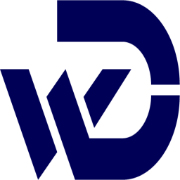
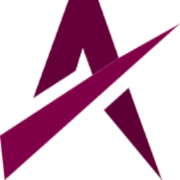
Edited PWA settings

diff --git a/app/components/dashboard/nav-links.tsx b/app/components/dashboard/nav-links.tsx
@@ -2,15 +2,14 @@
 
 import {
   HomeIcon,
-  DocumentDuplicateIcon,
   ClipboardDocumentListIcon,
   ClipboardDocumentCheckIcon,
+  Cog6ToothIcon,
 } from '@heroicons/react/24/outline';
 
 import Link from 'next/link';
 import { usePathname } from 'next/navigation';
 import clsx from 'clsx';
-import ThemeSwitcher from '@/app/components/themeSwitcher';
 
 // Map of links to display in the side navigation.
 const links = [
@@ -23,6 +22,7 @@ const links = [
   // { name: 'Customers', href: '/dashboard/customers', icon: UserGroupIcon },
   { name: 'Tasks', href: '/dashboard/tasks', icon: ClipboardDocumentListIcon },
   { name: 'Goals', href: '/dashboard/goals', icon: ClipboardDocumentCheckIcon },
+  { name: 'Settings', href: '/dashboard/settings', icon: Cog6ToothIcon },
 ];
 
 export default function NavLinks() {
@@ -30,36 +30,65 @@ export default function NavLinks() {
 
   return (
     <>
-      {links.map((link) => {
+      {links.map((link, index) => {
         const LinkIcon = link.icon;
-        return (
-          <Link
-            key={link.name}
-            href={link.href}
-            className={clsx(
-              'flex h-[48px] grow items-center justify-center gap-2 rounded-md  p-3 text-sm font-medium dark:hover:text-white md:flex-none md:justify-start md:p-2 md:px-3',
-              {
-                'bg-active hover:bg-active dark:bg-active text-white hover:text-white dark:text-white':
-                  pathname === link.href,
-              },
-              {
-                'dark:hover:bg-active dark:bg-secondary bg-gray-50 hover:bg-gray-100':
-                  pathname !== link.href,
-              },
-            )}
-          >
-            <LinkIcon className="w-6" />
-            <p className="hidden md:block">{link.name}</p>
-          </Link>
-        );
+        if (index + 1 < links.length) {
+          return (
+            <Link
+              key={link.name}
+              href={link.href}
+              className={clsx(
+                'flex h-[48px] grow items-center justify-center gap-2 rounded-md  p-3 text-sm font-medium dark:hover:text-white md:flex-none md:justify-start md:p-2 md:px-3',
+                {
+                  'bg-active hover:bg-active dark:bg-active text-white hover:text-white dark:text-white':
+                    pathname === link.href,
+                },
+                {
+                  'dark:hover:bg-active dark:bg-secondary bg-gray-50 hover:bg-gray-200':
+                    pathname !== link.href,
+                },
+              )}
+            >
+              <LinkIcon className="w-6" />
+              <p className="hidden md:block">{link.name}</p>
+            </Link>
+          );
+        } else {
+          return (
+            <>
+              <div className="dark:bg-secondary hidden h-auto w-full grow rounded-md bg-gray-50 md:block"></div>
+              <Link
+                key={link.name}
+                href={link.href}
+                className={clsx(
+                  'flex h-[48px] grow items-center justify-center gap-2 rounded-md  p-3 text-sm font-medium dark:hover:text-white md:flex-none md:justify-start md:p-2 md:px-3',
+                  {
+                    'bg-active hover:bg-active dark:bg-active text-white hover:text-white dark:text-white':
+                      pathname === link.href,
+                  },
+                  {
+                    'dark:hover:bg-active dark:bg-secondary bg-gray-50 hover:bg-gray-200':
+                      pathname !== link.href,
+                  },
+                )}
+              >
+                <LinkIcon className="w-6" />
+                <p className="hidden md:block">{link.name}</p>
+              </Link>
+            </>
+          );
+        }
       })}
+      {/* 
+import ThemeSwitcher from '@/app/components/themeSwitcher';
+      
       <div
         className={clsx(
           'dark:bg-secondary hover:text-active dark:hover:bg-active md:px-3s flex h-[48px] grow items-center justify-center gap-2 rounded-md bg-gray-50 p-3 text-sm font-medium hover:bg-gray-100 dark:hover:text-white md:flex-none md:justify-start md:p-2',
         )}
       >
         <ThemeSwitcher />
-      </div>
+      </div> */}
     </>
   );
 }

diff --git a/app/components/dashboard/sidenav.tsx b/app/components/dashboard/sidenav.tsx
@@ -1,32 +1,37 @@
 import Link from 'next/link';
 import NavLinks from '@/app/components/dashboard/nav-links';
-import AcmeLogo from '@/app/components/acme-logo';
-import { PowerIcon } from '@heroicons/react/24/outline';
+import { Cog6ToothIcon, PowerIcon } from '@heroicons/react/24/outline';
 import { signOut } from '@/auth';
-import { useTheme } from 'next-themes';
+import Image from 'next/image';
 
 export default function SideNav() {
   return (
     <div className="flex h-full flex-col px-3 py-4 md:px-2">
       <Link
-        className="bg-active dark:bg-active mb-2 flex h-20 items-end justify-start rounded-md p-4 md:h-40"
+        className="bg-active dark:bg-active mb-2 flex h-20 items-center justify-center rounded-md p-4 md:h-40"
         href="/"
       >
-        <div className="w-32 md:w-40">
-          <AcmeLogo />
-        </div>
+        <Image
+          src={'/logo_wit.svg'}
+          width={150}
+          height={200}
+          alt="Logo ListTrackr"
+        />
       </Link>
       <div className="flex grow flex-row justify-between space-x-2 md:flex-col md:space-x-0 md:space-y-2">
         <NavLinks />
 
-        <div className="dark:bg-secondary hidden h-auto w-full grow rounded-md bg-gray-50 md:block"></div>
         <form
           action={async () => {
             'use server';
             await signOut();
           }}
         >
-          <button className="dark:bg-secondary dark:hover:bg-active flex h-[48px] w-full grow items-center justify-center gap-2 rounded-md bg-gray-50 p-3 text-sm font-medium hover:bg-sky-200 md:flex-none md:justify-start md:p-2 md:px-3">
+          {/* <button className="dark:bg-secondary dark:hover:bg-active mb-2 flex h-[48px] w-full grow items-center justify-center gap-2 rounded-md bg-gray-50 p-3 text-sm font-medium hover:bg-gray-200 md:flex-none md:justify-start md:p-2 md:px-3">
+            <Cog6ToothIcon className="w-6" />
+            <div className="hidden md:block">Settings</div>
+          </button> */}
+          <button className="dark:bg-secondary dark:hover:bg-active flex h-[48px] w-full grow items-center justify-center gap-2 rounded-md bg-gray-50 p-3 text-sm font-medium hover:bg-gray-200 md:flex-none md:justify-start md:p-2 md:px-3">
             <PowerIcon className="w-6" />
             <div className="hidden md:block">Sign Out</div>
           </button>

diff --git a/app/layout.tsx b/app/layout.tsx
@@ -8,10 +8,12 @@ import { ThemeProvider } from '@/app/components/themeProvider';
 
 export const metadata: Metadata = {
   title: {
-    template: '%s | Acme Dashboard',
-    default: 'Acme Dashboard',
+    template: '%s',
+    // template: '%s | ListTrackr',
+    default: 'ListTrackr',
   },
-  description: 'The official Next.js Learn Dashboard built with App Router.',
+  description:
+    'ListTrackr is your personal productivity companion designed to help you turn your aspirations into accomplishments.',
   metadataBase: new URL('https://next-learn-dashboard.vercel.sh'),
 };
 
@@ -29,14 +31,14 @@ export default async function RootLayout({
           name="viewport"
           content="minimum-scale=1, initial-scale=1, width=device-width, shrink-to-fit=no, user-scalable=no, viewport-fit=cover"
         />
-        <meta name="pwa-demo" content="pwa-demo" />
+        <meta name="ListTrackr" content="ListTrackr" />
         <meta name="apple-mobile-web-app-capable" content="yes" />
         <meta name="apple-mobile-web-app-status-bar-style" content="default" />
-        <meta name="apple-mobile-web-app-title" content="pwa-demo" />
-        <meta name="description" content="pwa-demo" />
+        <meta name="apple-mobile-web-app-title" content="ListTrackr" />
+        <meta name="description" content="ListTrackr" />
         <meta name="format-detection" content="telephone=no" />
         <meta name="mobile-web-app-capable" content="yes" />
-        <meta name="msapplication-TileColor" content="#2B5797" />
+        <meta name="msapplication-TileColor" content="#5E0035" />
         <meta name="msapplication-tap-highlight" content="no" />
         <meta name="theme-color" content="#000000" />
         <link rel="manifest" href="/manifest.json" />

diff --git a/middleware.ts b/middleware.ts
@@ -1,21 +1,9 @@
-// // import NextAuth from 'next-auth';
-// // import { authConfig } from './auth.config';
-
-// // export default NextAuth(authConfig).auth;
-// // // export { auth as middleware } from "@/auth"
-
-// export const config = {
-//   // https://nextjs.org/docs/app/building-your-application/routing/middleware#matcher
-//   matcher: ['/((?!api|_next/static|_next/image|.*\\.png$).*)'],
-// };
-
-// import authConfig from './auth.config';
-// import NextAuth from 'next-auth';
-// export const { auth: middleware } = NextAuth(authConfig);
-
 export const config = {
   // https://nextjs.org/docs/app/building-your-application/routing/middleware#matcher
-  matcher: ['/((?!api|_next/static|_next/image|.*\\.png$|manifest\\.json).*)'], // Add 'manifest\\.json' to exclude manifest file
+  // matcher: ['/((?!api|_next/static|_next/image|.*\\.png$|manifest\\.json).*)'], // Add 'manifest\\.json' to exclude manifest file
+  matcher: [
+    '/((?!api|_next/static|_next/image|.*\\.png$|manifest\\.json|.*\\.svg$|^/public/).*)',
+  ],
 };
 
 import authConfig from './auth.config';

diff --git a/app/login/page.tsx b/app/login/page.tsx
@@ -1,4 +1,4 @@
-import AcmeLogo from '@/app/components/acme-logo';
+// import AcmeLogo from '@/app/components/acme-logo';
 import LoginForm from '@/app/components/login-form';
 import { Metadata } from 'next';
 
@@ -15,11 +15,11 @@ export default async function LoginPage() {
   return (
     <main className="flex items-center justify-center md:h-screen">
       <div className="relative mx-auto flex w-full max-w-[400px] flex-col space-y-2.5 p-4 md:-mt-32">
-        <div className="flex h-20 w-full items-end rounded-lg bg-blue-500 p-3 md:h-36">
+        {/* <div className="flex h-20 w-full items-end rounded-lg bg-blue-500 p-3 md:h-36">
           <div className="w-32 text-white md:w-36">
             <AcmeLogo />
           </div>
-        </div>
+        </div> */}
         <LoginForm />
 
         <form

diff --git a/app/page.tsx b/app/page.tsx
@@ -1,4 +1,4 @@
-import AcmeLogo from '@/app/components/acme-logo';
+// import AcmeLogo from '@/app/components/acme-logo';
 import { ArrowRightIcon } from '@heroicons/react/24/outline';
 import Link from 'next/link';
 import { exo } from '@/app/components/fonts';
@@ -8,7 +8,7 @@ export default function Page() {
   return (
     <main className="flex min-h-screen flex-col p-6">
       <div className="flex h-20 shrink-0 items-end rounded-lg bg-blue-500 p-4 md:h-52">
-        <AcmeLogo />
+        {/* <AcmeLogo /> */}
       </div>
       <div className="mt-4 flex grow flex-col gap-4 md:flex-row">
         <div className="flex flex-col justify-center gap-6 rounded-lg bg-gray-50 px-6 py-10 md:w-2/5 md:px-20">

diff --git a/app/dashboard/settings/page.tsx b/app/dashboard/settings/page.tsx
@@ -1,0 +1,18 @@
+import ThemeSwitcher from '@/app/components/themeSwitcher';
+import { exo } from '@/app/components/fonts';
+import { Metadata } from 'next';
+
+export const metadata: Metadata = {
+  title: 'Settings',
+};
+
+export default function Settings() {
+  return (
+    <>
+      <h1 className={`${exo.className} mb-4 text-3xl font-bold`}>Settings</h1>
+      <div className="dark:bg-secondary hover:text-active dark:hover:bg-active md:px-3s flex h-[48px] grow items-center justify-center gap-2 rounded-md bg-gray-50 p-3 text-sm font-medium hover:bg-gray-100 dark:hover:text-white md:flex-none md:justify-start md:p-2">
+        <ThemeSwitcher />
+      </div>
+    </>
+  );
+}

diff --git a/app/dashboard/goals/page.tsx b/app/dashboard/goals/page.tsx
@@ -2,8 +2,9 @@ import GoalTables from '@/app/components/goals/tables';
 import { exo } from '@/app/components/fonts';
 import { Suspense } from 'react';
 import { Metadata } from 'next';
+
 export const metadata: Metadata = {
-  title: 'Tasks',
+  title: 'Goals',
 };
 
 export default async function Page() {

diff --git a/app/dashboard/tasks/page.tsx b/app/dashboard/tasks/page.tsx
@@ -2,6 +2,7 @@ import Tables from '@/app/components/tasks/tables';
 import { exo } from '@/app/components/fonts';
 import { Suspense } from 'react';
 import { Metadata } from 'next';
+
 export const metadata: Metadata = {
   title: 'Tasks',
 };

diff --git a/auth.ts b/auth.ts
@@ -59,5 +59,6 @@ const pool = new Pool({
 export const { handlers, auth, signIn, signOut } = NextAuth({
   adapter: PostgresAdapter(pool),
   session: { strategy: 'jwt' },
+  debug: true,
   ...authConfig,
 });
